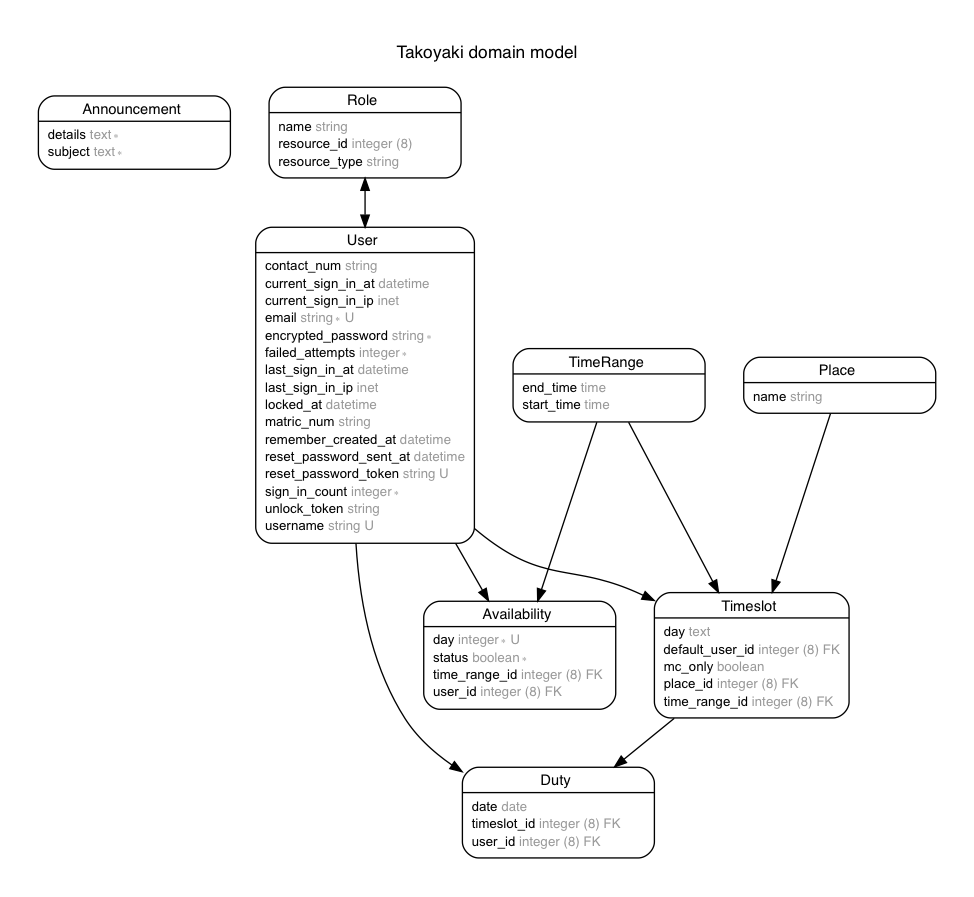
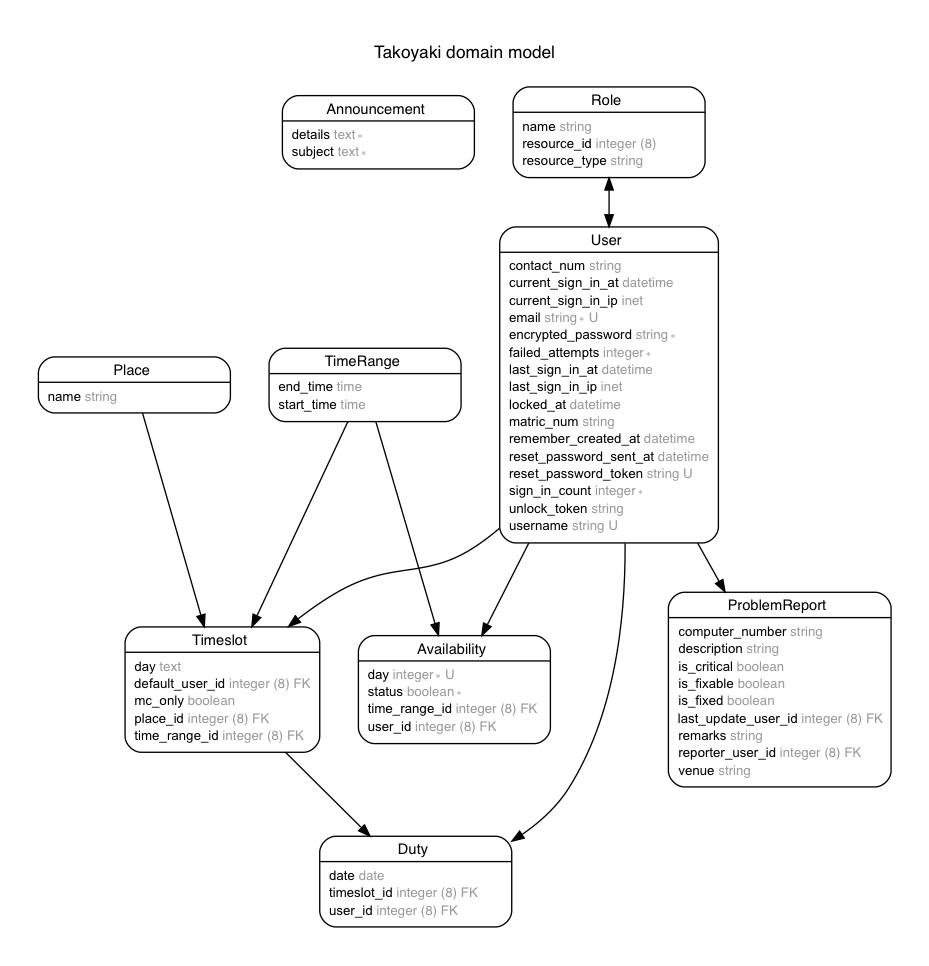
add problem report atributes

diff --git a/db/schema.rb b/db/schema.rb
@@ -10,7 +10,7 @@
 #
 # It's strongly recommended that you check this file into your version control system.
 
-ActiveRecord::Schema.define(version: 20180319073436) do
+ActiveRecord::Schema.define(version: 20180326174632) do
 
   # These are extensions that must be enabled in order to support this database
   enable_extension "plpgsql"
@@ -45,6 +45,20 @@ ActiveRecord::Schema.define(version: 20180319073436) do
     t.string   "name"
     t.datetime "created_at", :null=>false
     t.datetime "updated_at", :null=>false
+  end
+
+  create_table "problem_reports", force: :cascade do |t|
+    t.bigint   "reporter_user_id",    :index=>{:name=>"index_problem_reports_on_reporter_user_id"}
+    t.bigint   "last_update_user_id", :index=>{:name=>"index_problem_reports_on_last_update_user_id"}
+    t.datetime "created_at",          :null=>false
+    t.datetime "updated_at",          :null=>false
+    t.string   "venue"
+    t.string   "computer_number"
+    t.string   "description"
+    t.boolean  "is_critical"
+    t.boolean  "is_fixed"
+    t.boolean  "is_fixable"
+    t.string   "remarks"
   end
 
   create_table "roles", force: :cascade do |t|

diff --git a/app/models/problem_report.rb b/app/models/problem_report.rb
@@ -1,0 +1,27 @@
+# == Schema Information
+#
+# Table name: problem_reports
+#
+#  id                  :integer          not null, primary key
+#  reporter_user_id    :integer
+#  last_update_user_id :integer
+#  created_at          :datetime         not null
+#  updated_at          :datetime         not null
+#  venue               :string
+#  computer_number     :string
+#  description         :string
+#  is_critical         :boolean
+#  is_fixed            :boolean
+#  is_fixable          :boolean
+#  remarks             :string
+#
+# Indexes
+#
+#  index_problem_reports_on_last_update_user_id  (last_update_user_id)
+#  index_problem_reports_on_reporter_user_id     (reporter_user_id)
+#
+
+class ProblemReport < ApplicationRecord
+  belongs_to :reporter_user, :class_name => 'User'
+  belongs_to :last_update_user, :class_name => 'User'
+end

diff --git a/spec/models/problem_report_spec.rb b/spec/models/problem_report_spec.rb
@@ -1,0 +1,28 @@
+# == Schema Information
+#
+# Table name: problem_reports
+#
+#  id                  :integer          not null, primary key
+#  reporter_user_id    :integer
+#  last_update_user_id :integer
+#  created_at          :datetime         not null
+#  updated_at          :datetime         not null
+#  venue               :string
+#  computer_number     :string
+#  description         :string
+#  is_critical         :boolean
+#  is_fixed            :boolean
+#  is_fixable          :boolean
+#  remarks             :string
+#
+# Indexes
+#
+#  index_problem_reports_on_last_update_user_id  (last_update_user_id)
+#  index_problem_reports_on_reporter_user_id     (reporter_user_id)
+#
+
+require 'rails_helper'
+
+RSpec.describe ProblemReport, type: :model do
+  pending "add some examples to (or delete) #{__FILE__}"
+end

diff --git a/spec/factories/problem_reports.rb b/spec/factories/problem_reports.rb
@@ -1,0 +1,29 @@
+# == Schema Information
+#
+# Table name: problem_reports
+#
+#  id                  :integer          not null, primary key
+#  reporter_user_id    :integer
+#  last_update_user_id :integer
+#  created_at          :datetime         not null
+#  updated_at          :datetime         not null
+#  venue               :string
+#  computer_number     :string
+#  description         :string
+#  is_critical         :boolean
+#  is_fixed            :boolean
+#  is_fixable          :boolean
+#  remarks             :string
+#
+# Indexes
+#
+#  index_problem_reports_on_last_update_user_id  (last_update_user_id)
+#  index_problem_reports_on_reporter_user_id     (reporter_user_id)
+#
+
+FactoryBot.define do
+  factory :problem_report do
+    reporter_user ""
+    last_update_user ""
+  end
+end

diff --git a/app/models/availability.rb b/app/models/availability.rb
@@ -1,5 +1,4 @@
 # frozen_string_literal: true
-
 # == Schema Information
 #
 # Table name: availabilities
@@ -16,8 +15,7 @@
 #
 #  index_availabilities_on_time_range_id                      (time_range_id)
 #  index_availabilities_on_user_id                            (user_id)
-#  index_availabilities_on_user_id_and_time_range_id_and_day
-#    (user_id,time_range_id,day) UNIQUE
+#  index_availabilities_on_user_id_and_time_range_id_and_day  (user_id,time_range_id,day) UNIQUE
 #
 # Foreign Keys
 #

diff --git a/spec/factories/availabilities.rb b/spec/factories/availabilities.rb
@@ -1,5 +1,4 @@
 # frozen_string_literal: true
-
 # == Schema Information
 #
 # Table name: availabilities
@@ -16,8 +15,7 @@
 #
 #  index_availabilities_on_time_range_id                      (time_range_id)
 #  index_availabilities_on_user_id                            (user_id)
-#  index_availabilities_on_user_id_and_time_range_id_and_day
-#    (user_id,time_range_id,day) UNIQUE
+#  index_availabilities_on_user_id_and_time_range_id_and_day  (user_id,time_range_id,day) UNIQUE
 #
 # Foreign Keys
 #

diff --git a/spec/models/availability_spec.rb b/spec/models/availability_spec.rb
@@ -1,5 +1,4 @@
 # frozen_string_literal: true
-
 # == Schema Information
 #
 # Table name: availabilities
@@ -16,8 +15,7 @@
 #
 #  index_availabilities_on_time_range_id                      (time_range_id)
 #  index_availabilities_on_user_id                            (user_id)
-#  index_availabilities_on_user_id_and_time_range_id_and_day
-#    (user_id,time_range_id,day) UNIQUE
+#  index_availabilities_on_user_id_and_time_range_id_and_day  (user_id,time_range_id,day) UNIQUE
 #
 # Foreign Keys
 #

diff --git a/db/migrate/20180326174632_add_attributes_to_problem_report.rb b/db/migrate/20180326174632_add_attributes_to_problem_report.rb
@@ -1,0 +1,11 @@
+class AddAttributesToProblemReport < ActiveRecord::Migration[5.1]
+  def change
+    add_column :problem_reports, :venue, :string
+    add_column :problem_reports, :computer_number, :string
+    add_column :problem_reports, :description, :string
+    add_column :problem_reports, :is_critical, :boolean
+    add_column :problem_reports, :is_fixed, :boolean
+    add_column :problem_reports, :is_fixable, :boolean
+    add_column :problem_reports, :remarks, :string
+  end
+end

diff --git a/app/models/user.rb b/app/models/user.rb
@@ -40,4 +40,7 @@ class User < ApplicationRecord
   has_many :duties, dependent: :nullify
   has_many :timeslots, foreign_key: :default_user_id, inverse_of: :user,
                        dependent: :nullify
+                       
+  has_many :reported_problem_reports, :class_name => 'ProblemReport', :foreign_key => 'reporter_user_id'
+  has_many :last_updated_problem_reports, :class_name => 'ProblemReport', :foreign_key => 'last_update_user_id'                      
 end

diff --git a/db/migrate/20180326173006_create_problem_reports.rb b/db/migrate/20180326173006_create_problem_reports.rb
@@ -1,0 +1,10 @@
+class CreateProblemReports < ActiveRecord::Migration[5.1]
+  def change
+    create_table :problem_reports do |t|
+      t.references :reporter_user
+      t.references :last_update_user
+
+      t.timestamps
+    end
+  end
+end
